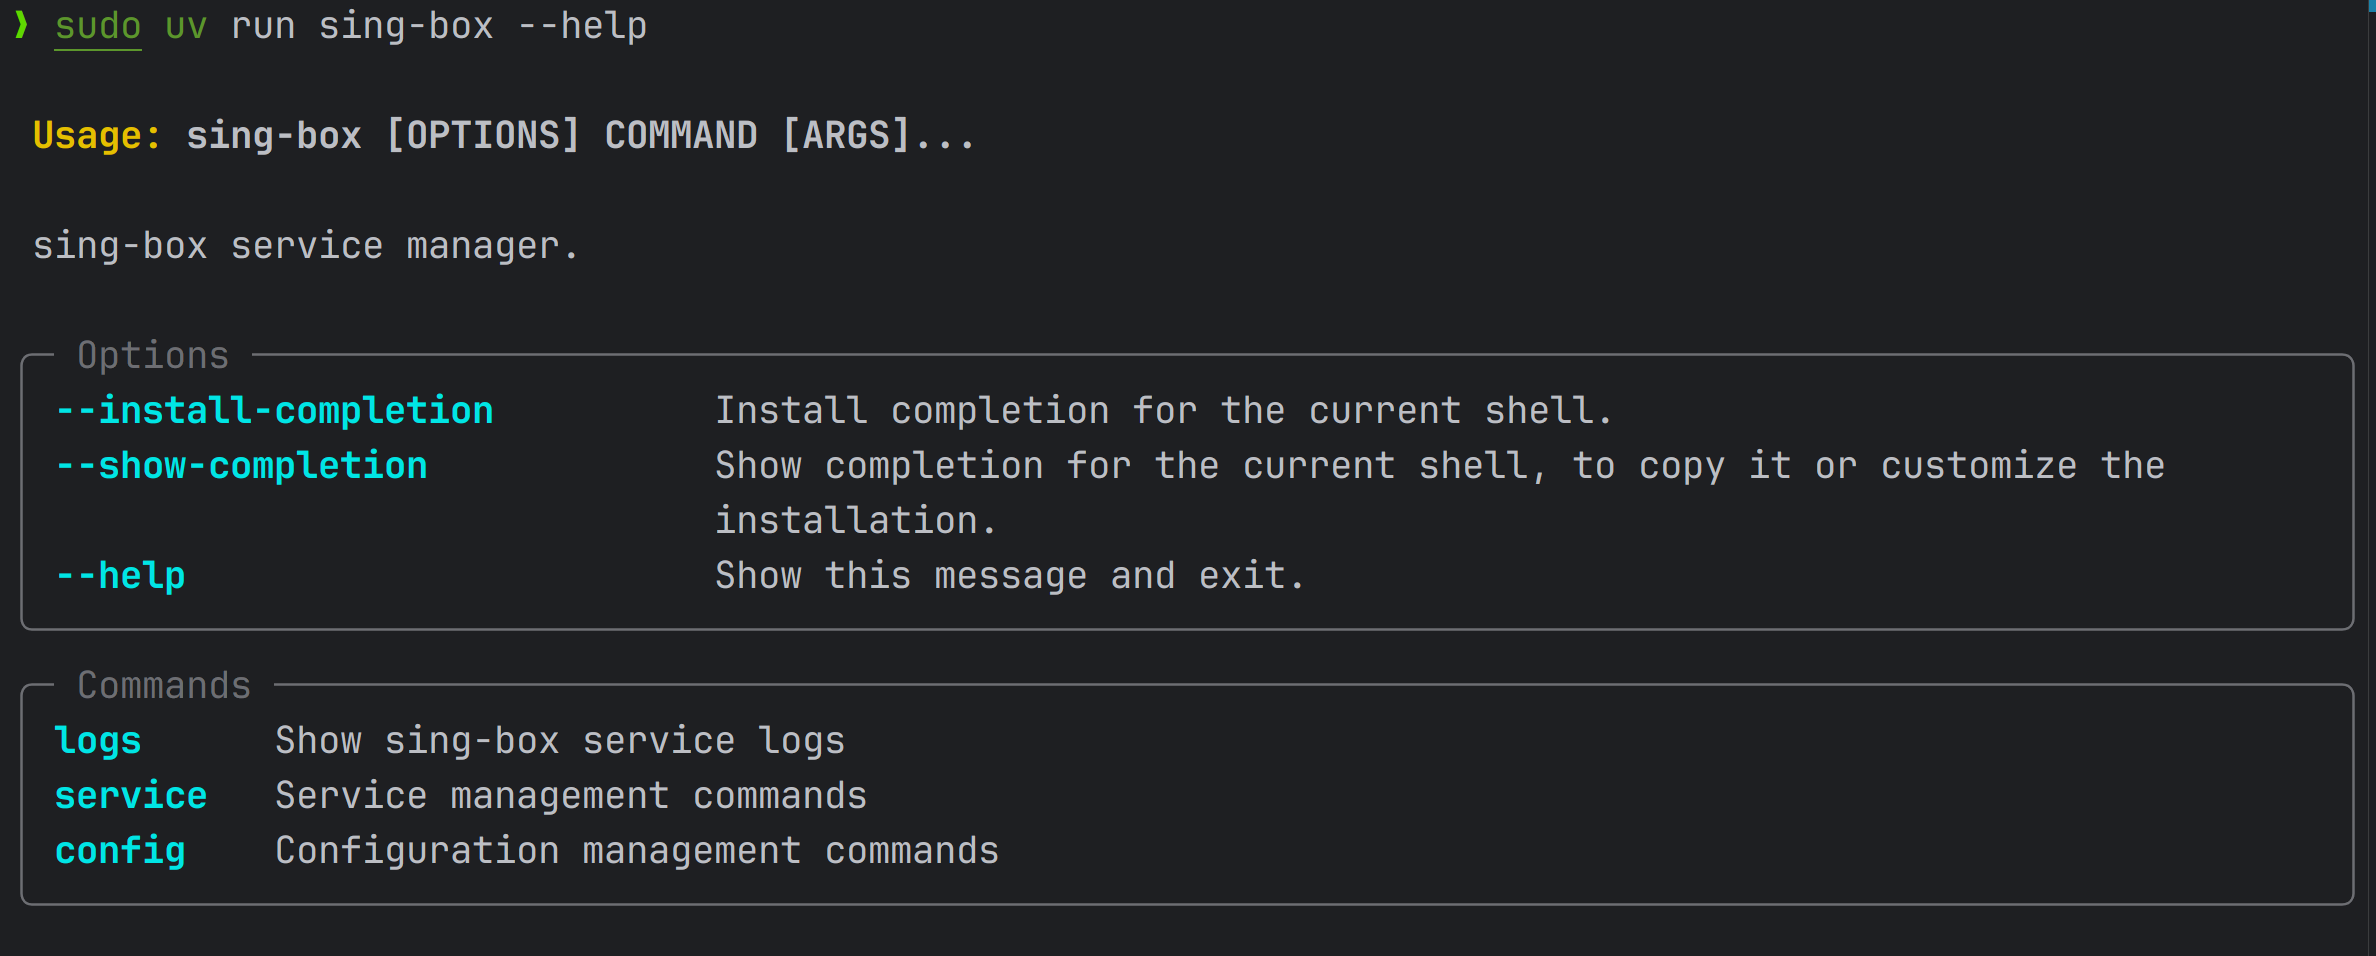
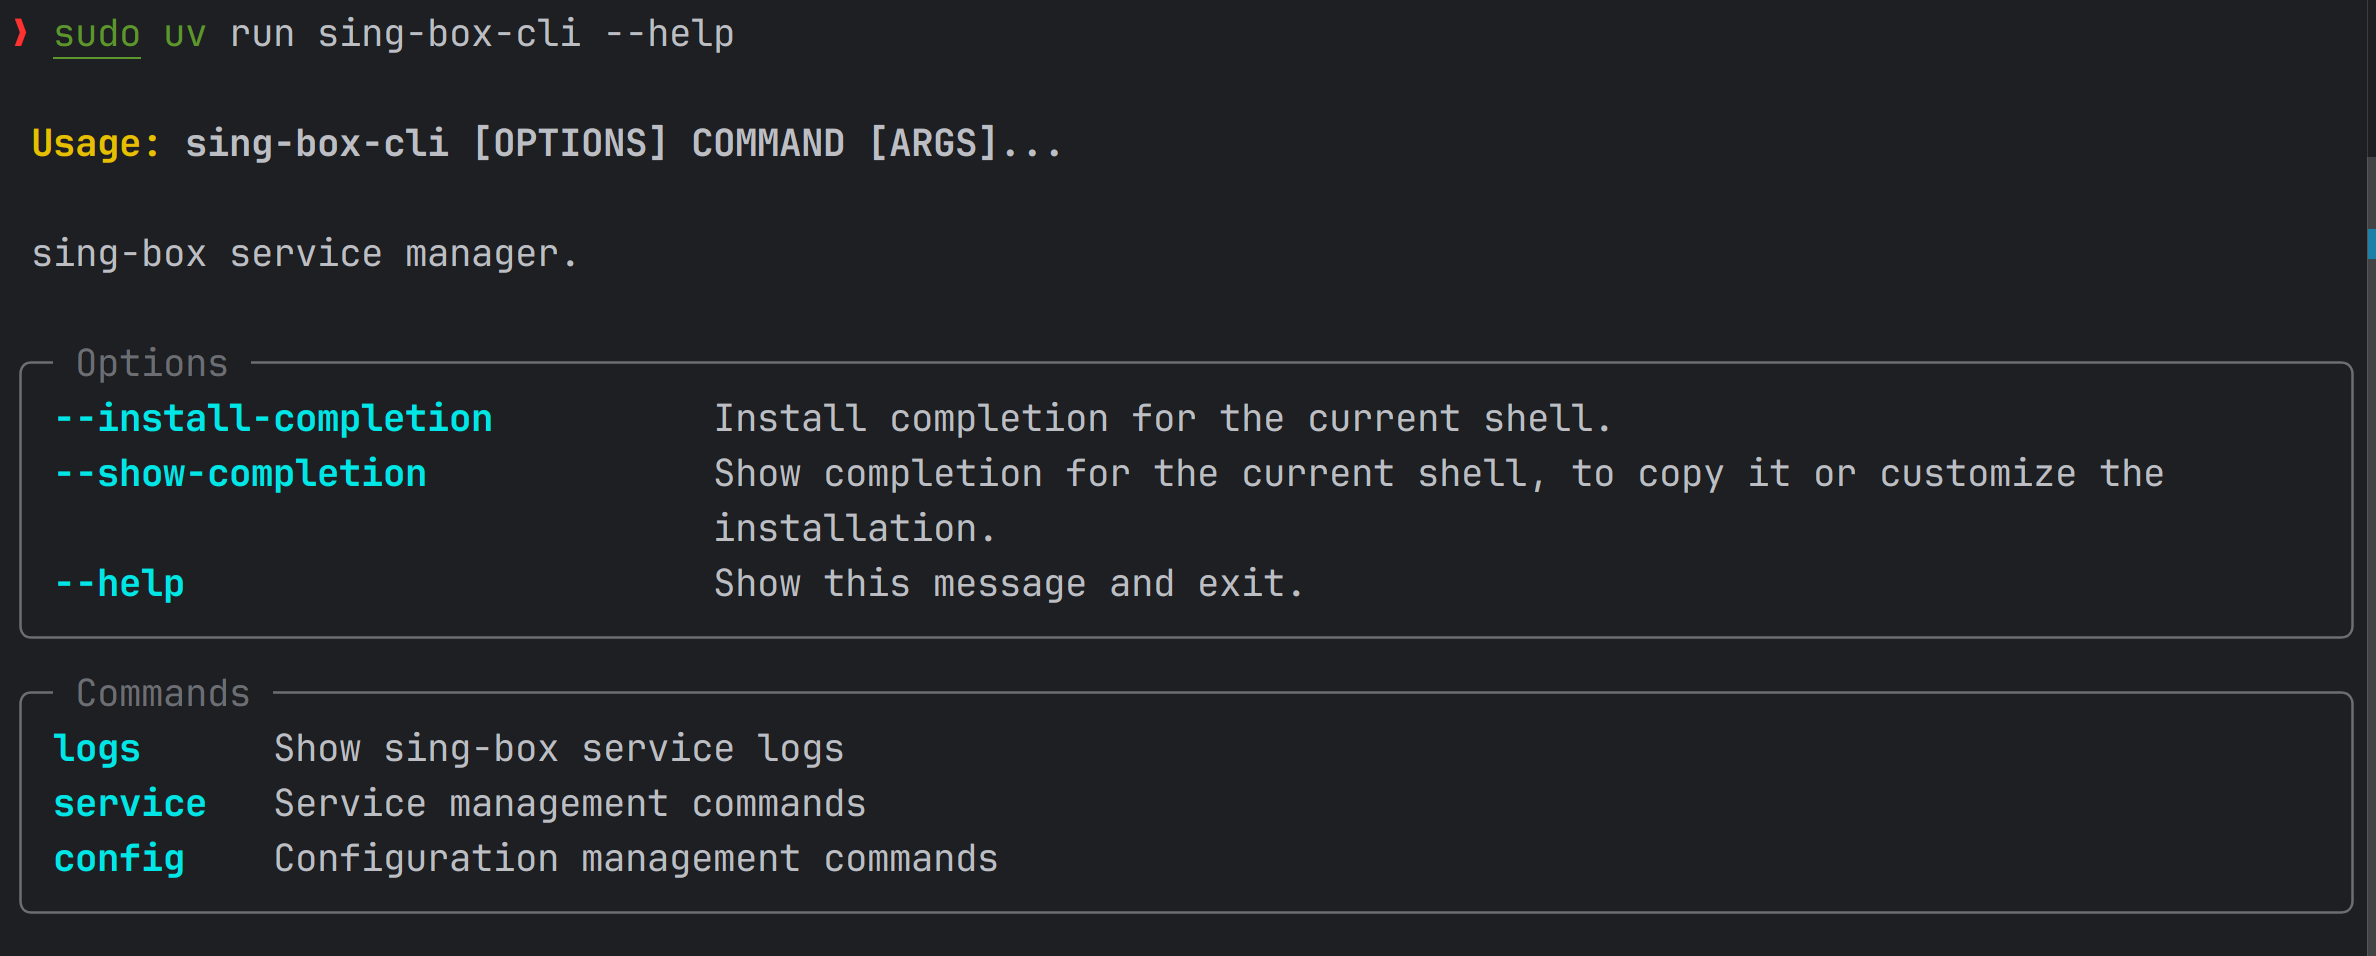
fix: cli name

diff --git a/README.md b/README.md
@@ -4,7 +4,6 @@ cross-platform sing-box service manager
 
 ![](assets/image.png)
 
-
 ## Install
 
 ### init UV
@@ -21,7 +20,7 @@ ln -s $(which uv) /usr/local/bin/uv
 ### add sing-box-service
 
 ```bash
-sudo uv tool install sing-box
+sudo uv tool install sing-box-cli
 ```
 
 ## Run
